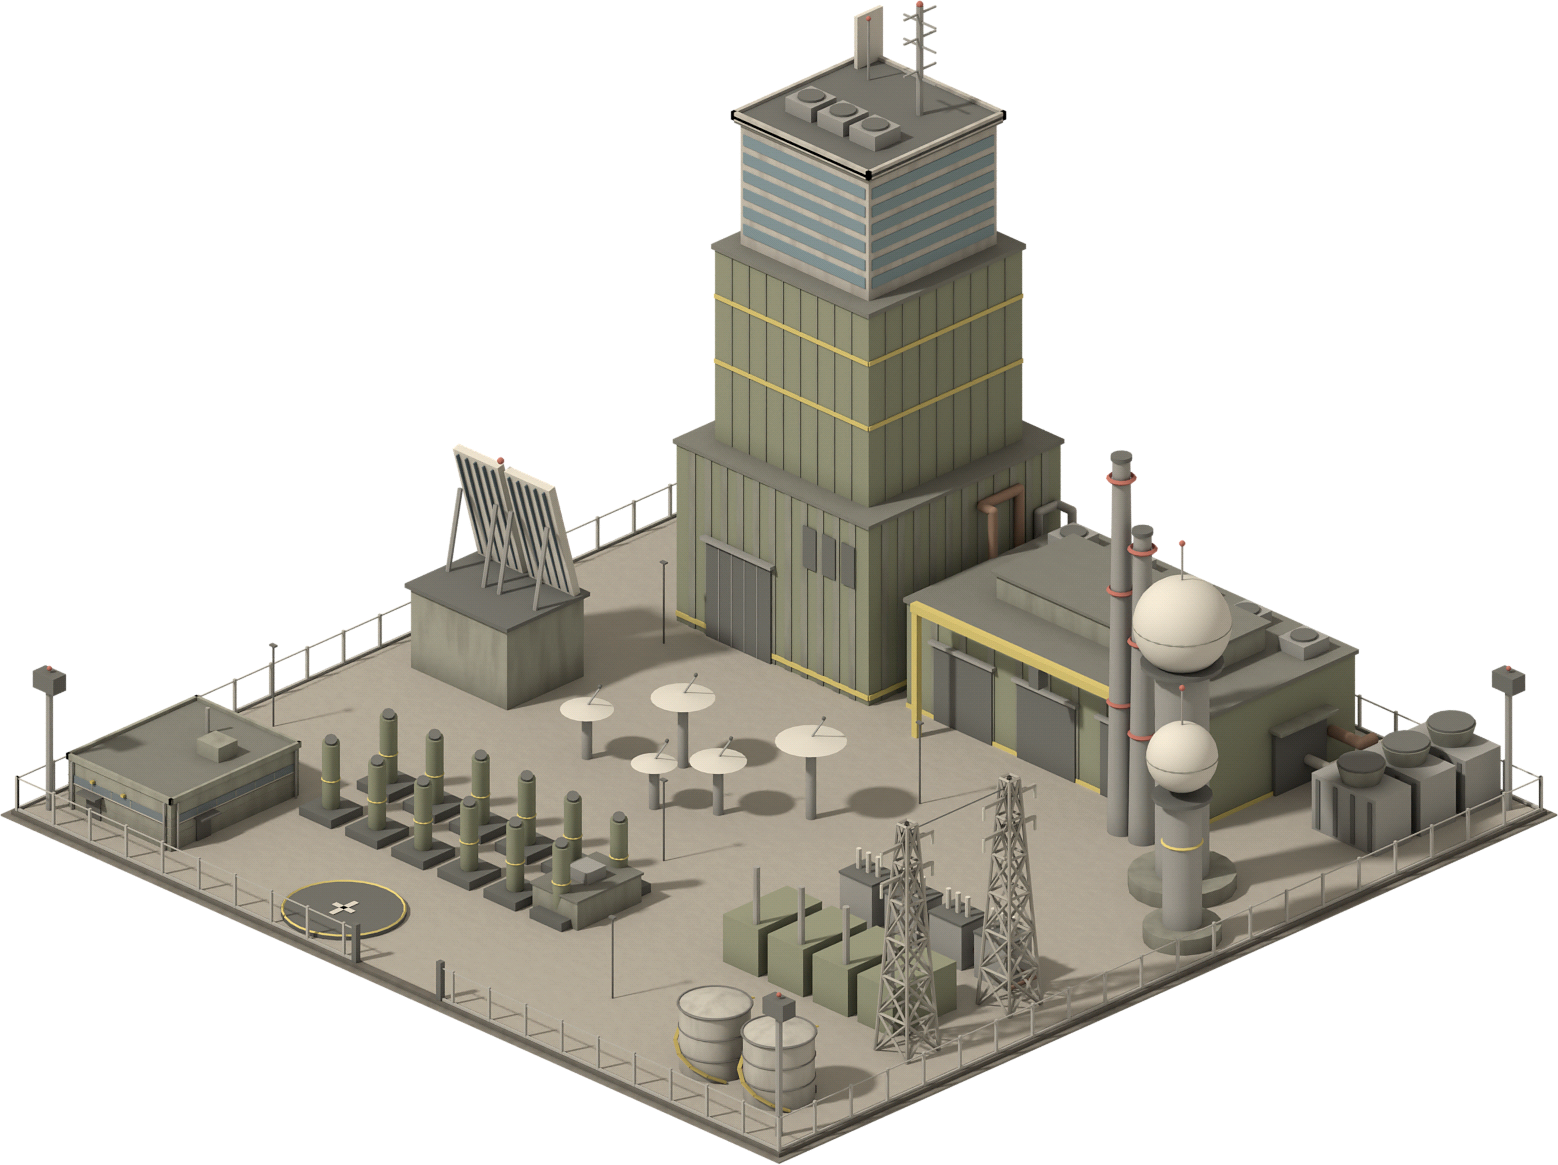
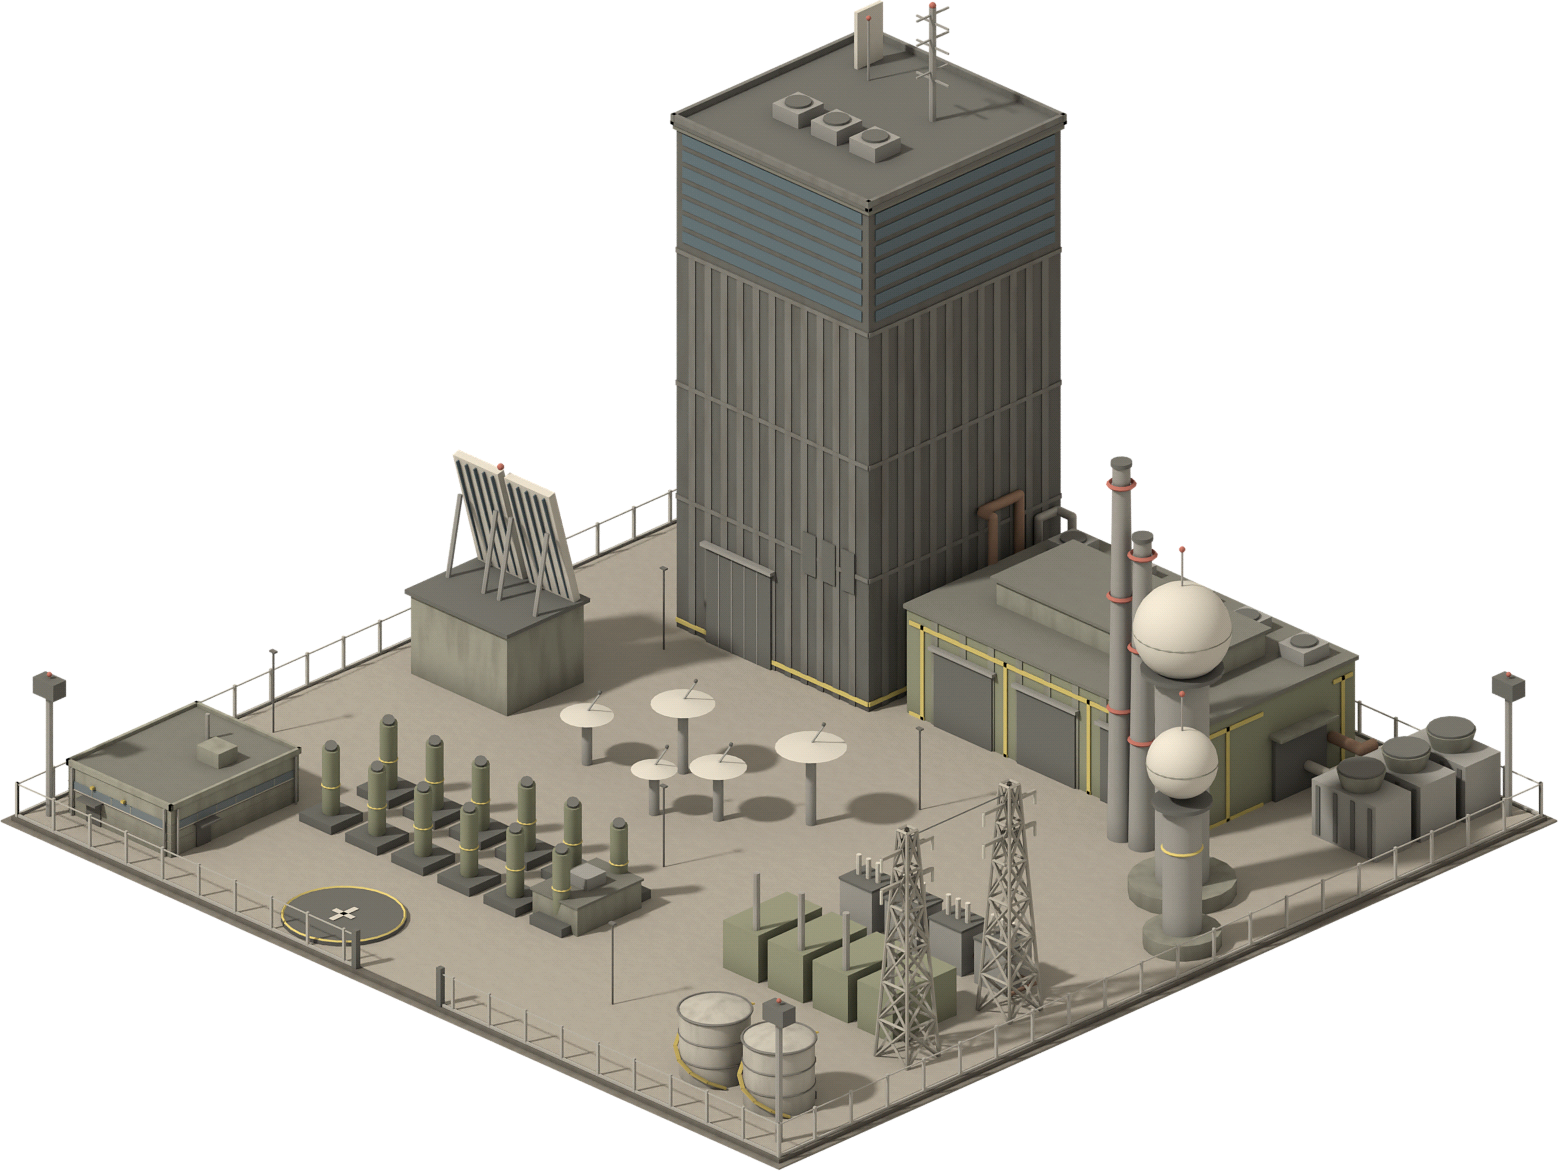
洋上プラットフォームの増設モジュールを取りやめ、AI防衛システムを一本のタワー（黒っぽく・暗いガラス）に、組立棟の黄色い模様を壁に這わせる
Claude-Session: https://claude.ai/code/session_018rzwRr8JkDqqPcQLfX2TTK

diff --git a/data/map.js b/data/map.js
@@ -21,12 +21,12 @@ window.GAME_DATA.map = {
   reclaimCostPerTile: 4000,   // 埋め立て：海の上に設備を置くとき、海のマスごとにかかる費用（物価指数で増える）。置いた足あとが陸地になる（s.map.fill）。海岸線から reclaimMax 行まで、港の前と造船所の開口部の前は海のまま
   reclaimCostPerRow: 240000, reclaimMax: 12,   // 旧方式（海岸線を全幅で1行広げる）。古いセーブと自動配置の用地の確保でだけ使う   // 埋め立て：海岸線を1行（全幅）広げる費用（物価指数で増える）と上限行数。港の前は海のまま
   // 増設モジュール：加工設備1基につき最大 max 個。1個で基準の日量が gain 倍ぶん増える。建設費・工期・維持費は元の設備の costMul・monthsMul・fixedMul 倍（新設より少しだけ得にして、土地を食わない・設備数の上限を超えられる分の利点とつり合わせる）
-  modules: { exclude: { shipyard: 1, colonyFactory: 1, aiDefenseFactory: 1 }, max: 3, gain: 1.0, costMul: 0.9, monthsMul: 0.7, fixedMul: 0.9 },
+  modules: { exclude: { shipyard: 1, colonyFactory: 1, aiDefenseFactory: 1, offshoreFactory: 1 }, max: 3, gain: 1.0, costMul: 0.9, monthsMul: 0.7, fixedMul: 0.9 },
   // 増設モジュールの足あとは、設置相手の設備ごとに違う（親の増築として絵を作ってある）。ここに無い親は footprint.module。造船所は増設なし
   moduleFootprint: {
     chemPlant: [3, 3], steelMill: [3, 4], aluminumSmelter: [2, 4], kiln: [2, 3], sawmill: [2, 2], paperMill: [2, 3],
     detergentFactory: [3, 2], garmentFactory: [2, 2], buildmatFactory: [3, 3], carFactory: [3, 3], aircraftFactory: [3, 3], semiconductorFactory: [2, 3], copperSmelter: [2, 3], pcFactory: [3, 2], evFactory: [3, 3], pharmaFactory: [2, 2], rocketFactory: [2, 3], munitionsFactory: [3, 3], fineChemPlant: [3, 3], explosivesFactory: [3, 3],
-    offshoreFactory: [3, 3], cableFactory: [2, 2], fiberFactory: [2, 2], motorFactory: [2, 3], powerEquipFactory: [3, 3], commGearFactory: [2, 2], satelliteFactory: [3, 3]
+    cableFactory: [2, 2], fiberFactory: [2, 2], motorFactory: [2, 3], powerEquipFactory: [3, 3], commGearFactory: [2, 2], satelliteFactory: [3, 3]
   },
   // 向きを選べない種類（絵が4方向そろっていないもの。そろったら外す）。造船所（海側が決まっている）と研究棟（敷地に重ねる）は engine.canRotate が別に判定する
   noRotate: {},

diff --git a/data/sprites_bl.js b/data/sprites_bl.js
@@ -3206,18 +3206,18 @@ window.GAME_DATA.spritesBL = {
    {
     "file": "../assets/bl/aiDefenseFactory_r0.png",
     "w": 779.0,
-    "h": 582.5,
+    "h": 585.5,
     "ax": 389.5,
-    "ay": 405.1,
+    "ay": 408.1,
     "fw": 12,
     "fd": 12
    },
    {
     "file": "../assets/bl/aiDefenseFactory_r1.png",
     "w": 779.0,
-    "h": 456.5,
+    "h": 458.5,
     "ax": 389.5,
-    "ay": 279.1,
+    "ay": 281.1,
     "fw": 12,
     "fd": 12
    },
@@ -3233,9 +3233,9 @@ window.GAME_DATA.spritesBL = {
    {
     "file": "../assets/bl/aiDefenseFactory_r3.png",
     "w": 779.0,
-    "h": 519.5,
+    "h": 525.0,
     "ax": 389.5,
-    "ay": 342.1,
+    "ay": 347.6,
     "fw": 12,
     "fd": 12
    }
@@ -3490,48 +3490,6 @@ window.GAME_DATA.spritesBL = {
     "ay": 152.6,
     "fw": 5,
     "fd": 5
-   }
-  ]
- },
- "module_offshoreFactory": {
-  "fw": 3,
-  "fd": 3,
-  "r": [
-   {
-    "file": "../assets/bl/module_offshoreFactory_r0.png",
-    "w": 203.0,
-    "h": 124.0,
-    "ax": 101.5,
-    "ay": 75.6,
-    "fw": 3,
-    "fd": 3
-   },
-   {
-    "file": "../assets/bl/module_offshoreFactory_r1.png",
-    "w": 203.0,
-    "h": 106.5,
-    "ax": 101.5,
-    "ay": 58.1,
-    "fw": 3,
-    "fd": 3
-   },
-   {
-    "file": "../assets/bl/module_offshoreFactory_r2.png",
-    "w": 203.0,
-    "h": 124.0,
-    "ax": 101.5,
-    "ay": 75.6,
-    "fw": 3,
-    "fd": 3
-   },
-   {
-    "file": "../assets/bl/module_offshoreFactory_r3.png",
-    "w": 203.0,
-    "h": 100.5,
-    "ax": 101.5,
-    "ay": 52.1,
-    "fw": 3,
-    "fd": 3
    }
   ]
  },
